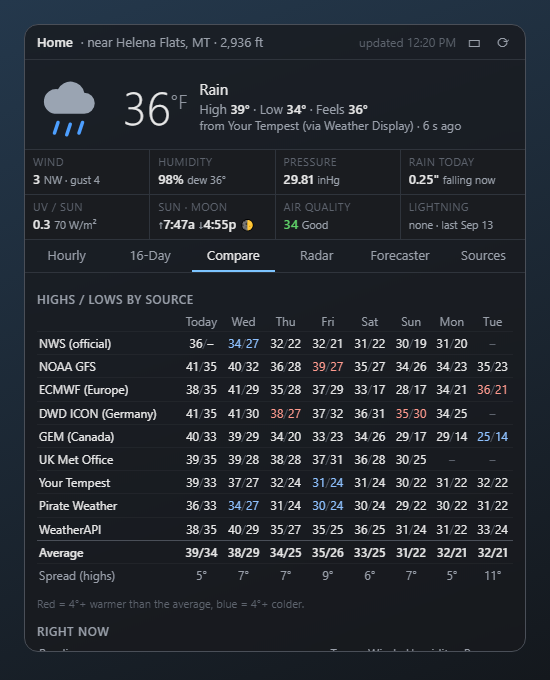
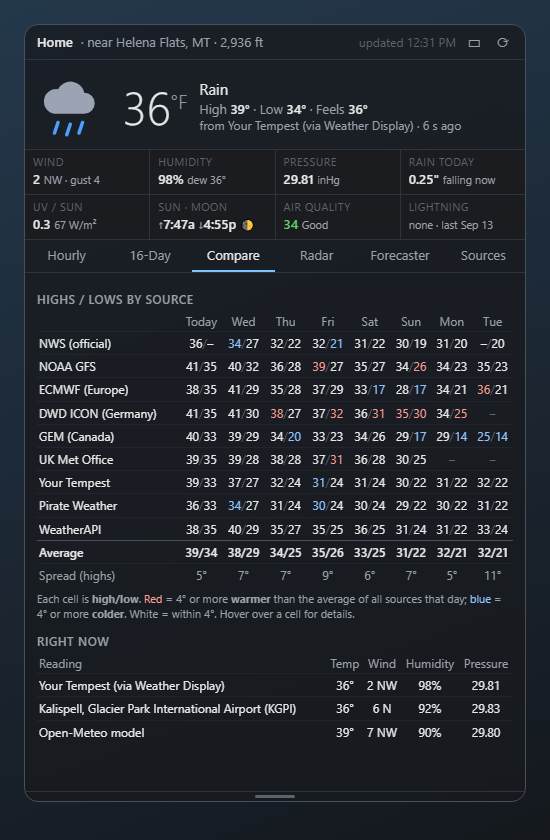
Resizable height, Compare colour key and tooltips, more screenshots
- Drag the bottom handle to make the panel taller/shorter (remembered,
  capped at the screen); double-click it to fit the current tab
- Compare: high and low coloured separately, hover tooltips per cell,
  clearer key; tooltips on the average and spread rows
- Radar loop starts on and pauses at the newest frame, shows minutes ago
- Hourly tooltip shows gusts only when higher; 7-day axis shows 12a/12p
- README: full-height screenshots plus day details, hourly hover, 7-day
  and right-click menu

Changed region(s): [[0.0309, 0.0309, 0.9582, 0.8956], [0.0618, 0.9265, 0.2164, 0.9574], [0.4636, 0.9265, 0.5255, 0.9574]]

diff --git a/panel.html b/panel.html
@@ -45,7 +45,12 @@
   nav div { flex: 1; text-align: center; padding: 6px 0; color: var(--dim); cursor: pointer; border-bottom: 2px solid transparent; }
   nav div:hover { color: var(--text); }
   nav div.on { color: var(--text); border-bottom-color: var(--accent); }
-  .tab { display: none; padding: 8px 12px 10px; height: 360px; overflow-y: auto; }
+  .tab { display: none; padding: 8px 12px 10px; height: var(--tabh, 360px); overflow-y: auto; }
+  #grip { height: 9px; cursor: ns-resize; display: flex; align-items: center; justify-content: center;
+          border-top: 1px solid var(--line); touch-action: none; }
+  #grip::after { content: ""; width: 40px; height: 3px; border-radius: 2px; background: #5d636d; }
+  #grip:hover::after { background: var(--accent); }
+  body.compact #grip { display: none; }
   .pywebview-drag-region { cursor: move; }
   #menu { position: fixed; background: #222; border: 1px solid #555; border-radius: 6px; z-index: 20;
           font-size: 13px; color: #ddd; padding: 4px 0; white-space: nowrap; }
@@ -129,6 +134,7 @@
   <div class="tab" id="t-radar"><div id="radar"></div><div style="margin-top:6px;color:var(--dim)" id="radarInfo"></div></div>
   <div class="tab" id="t-afd"></div>
   <div class="tab" id="t-sources"></div>
+  <div id="grip" title="Drag to make the panel taller or shorter. Double-click: fit this tab."></div>
 </div>
 <div id="tip"></div>
 <div id="menu" hidden>
@@ -263,7 +269,7 @@ function renderHourly() {
   // icons, temps and hour labels
   H.forEach((h, i) => { if (i % step) return;
     s += `<g transform="translate(${x(i) - 9} ${y(h.temp) - 26})">${icon(h.icon, 18, !h.day)}</g>`;
-    s += `<text x="${x(i)}" y="${bot - 20}" text-anchor="middle">${hourSpan === 48 ? hourLabel(h.t) : dayName(h.t.slice(0, 10))}</text>`;
+    s += `<text x="${x(i)}" y="${bot - 20}" text-anchor="middle">${hourLabel(h.t)}</text>`;
     s += `<text x="${x(i)}" y="${bot - 6}" text-anchor="middle" style="fill:#8a9">${f0(h.wind)}</text>`; });
   s += `<text x="0" y="${bot - 6}" style="fill:#8a9">mph</text>`;
   s += `<line id="cur" y1="${top - 8}" y2="${bot - 18}" stroke="#fff6" visibility="hidden"/>`;
@@ -275,7 +281,7 @@ function renderHourly() {
     const r = svg.getBoundingClientRect(), i = Math.max(0, Math.min(H.length - 1, Math.round((e.clientX - r.left - 30) / ((W - 44) / (H.length - 1))))), h = H[i];
     const c = $("cur"); c.setAttribute("x1", x(i)); c.setAttribute("x2", x(i)); c.setAttribute("visibility", "visible");
     const by = Object.entries(h.by || {}).map(([k, v]) => `<div style="color:#aaa">${k}: ${f0(v)}°</div>`).join("");
-    tip.innerHTML = `<b>${dayName(h.t.slice(0, 10))} ${hourLabel(h.t)}</b> ${esc(h.text || "")}<br>${f0(h.temp)}°F (feels ${f0(h.feels)}°) · ${h.pop ?? 0}% · wind ${f0(h.wind)}${h.gust ? "–" + f0(h.gust) : ""} mph${h.aqi != null ? " · AQI " + h.aqi : ""}${by}`;
+    tip.innerHTML = `<b>${dayName(h.t.slice(0, 10))} ${hourLabel(h.t)}</b> ${esc(h.text || "")}<br>${f0(h.temp)}°F (feels ${f0(h.feels)}°) · ${h.pop ?? 0}% · wind ${f0(h.wind)}${h.gust > h.wind ? ", gusts " + f0(h.gust) : ""} mph${h.aqi != null ? " · AQI " + h.aqi : ""}${by}`;
     tip.style.display = "block";
     const z = +document.body.style.zoom || 1, vw = innerWidth / z, vh = innerHeight / z;
     tip.style.left = Math.max(2, Math.min(e.clientX + 14, vw - tip.offsetWidth - 4)) + "px";
@@ -322,14 +328,17 @@ function periodDate(p) {
 
 function renderCompare() {
   const days = D.days.slice(0, 8), srcs = [...new Set(days.flatMap(d => Object.keys(d.by)))];
-  const cell = (d, s) => { const v = d.by[s]; if (!v || v.hi == null) return `<td style="color:var(--faint)">–</td>`;
-    const dh = v.hi - d.hi, cls = dh >= 4 ? "dev-hi" : dh <= -4 ? "dev-lo" : "";
-    return `<td class="${cls}">${f0(v.hi)}<span style="color:var(--faint)">/</span>${f0(v.lo)}</td>`; };
+  const dev = (v, avg) => v == null || avg == null ? "" : v - avg >= 4 ? "dev-hi" : v - avg <= -4 ? "dev-lo" : "";
+  const vs = (v, avg) => { if (v == null) return "no forecast"; const d = Math.round(v - avg);
+    return `${f0(v)}° (${d === 0 ? "same as" : Math.abs(d) + "° " + (d > 0 ? "warmer than" : "colder than")} the ${f0(avg)}° average)`; };
+  const cell = (d, s, i) => { const v = d.by[s]; if (!v || (v.hi == null && v.lo == null)) return `<td style="color:var(--faint)" title="${s} has no forecast for this day">–</td>`;
+    const tip = `${s}, ${i ? dayName(d.date, true) : "today"}\nHigh ${vs(v.hi, d.hi)}\nLow ${vs(v.lo, d.lo)}${v.pop != null ? "\nChance of rain/snow " + v.pop + "%" : ""}${v.text ? "\n" + v.text : ""}`;
+    return `<td title="${esc(tip)}"><span class="${dev(v.hi, d.hi)}">${f0(v.hi)}</span><span style="color:var(--faint)">/</span><span class="${dev(v.lo, d.lo)}">${f0(v.lo)}</span></td>`; };
   let h = `<h4>Highs / lows by source</h4><table class="cmp"><tr><th></th>${days.map((d, i) => `<th>${i ? dayName(d.date) : "Today"}</th>`).join("")}</tr>`;
-  h += srcs.map(s => `<tr><td>${s}</td>${days.map(d => cell(d, s)).join("")}</tr>`).join("");
-  h += `<tr class="cons"><td>Average</td>${days.map(d => `<td>${f0(d.hi)}/${f0(d.lo)}</td>`).join("")}</tr>`;
-  h += `<tr><td style="color:var(--dim)">Spread (highs)</td>${days.map(d => `<td style="color:var(--dim)">${d.hi_max - d.hi_min}°</td>`).join("")}</tr></table>`;
-  h += `<p style="color:var(--faint);font-size:11px">Red = 4°+ warmer than the average, blue = 4°+ colder.</p>`;
+  h += srcs.map(s => `<tr><td>${s}</td>${days.map((d, i) => cell(d, s, i)).join("")}</tr>`).join("");
+  h += `<tr class="cons"><td>Average</td>${days.map(d => `<td title="Average of ${d.hi_n} sources: high ${f0(d.hi)}°, low ${f0(d.lo)}°">${f0(d.hi)}/${f0(d.lo)}</td>`).join("")}</tr>`;
+  h += `<tr><td style="color:var(--dim)">Spread (highs)</td>${days.map(d => `<td style="color:var(--dim)" title="Warmest high ${d.hi_max}° minus coldest high ${d.hi_min}°. Bigger = the sources disagree more.">${d.hi_max - d.hi_min}°</td>`).join("")}</tr></table>`;
+  h += `<p style="color:var(--dim);font-size:11px;margin-top:6px">Each cell is <b>high/low</b>. <span class="dev-hi">Red</span> = 4° or more <b>warmer</b> than the average of all sources that day; <span class="dev-lo">blue</span> = 4° or more <b>colder</b>. White = within 4°. Hover over a cell for details.</p>`;
   h += `<h4>Right now</h4><table class="cmp"><tr><th>Reading</th><th>Temp</th><th>Wind</th><th>Humidity</th><th>Pressure</th></tr>` +
     D.readings.map(r => `<tr><td>${esc(r.station)}</td><td>${f0(r.temp)}°</td><td>${f0(r.wind)} ${compass(r.dir)}</td><td>${f0(r.rh)}%</td><td>${r.pressure ? (+r.pressure).toFixed(2) : "–"}</td></tr>`).join("") + `</table>`;
   $("t-compare").innerHTML = h;
@@ -345,7 +354,7 @@ function renderSources() {
   const S = D.sources;
   $("t-sources").innerHTML = Object.entries(S).map(([k, s]) => {
     const col = s.state === "ok" ? "var(--good)" : s.state === "no key" ? "var(--faint)" : s.state === "stale" ? "var(--fair)" : "var(--bad)";
-    const note = s.state === "ok" ? (s.via ? "via " + s.via : "") + (s.fetched ? " · " + ago(new Date(s.fetched * 1000).toISOString()) : "")
+    const note = s.state === "ok" ? [s.via ? "via " + s.via : "", s.fetched ? ago(new Date(s.fetched * 1000).toISOString()) : ""].filter(Boolean).join(" · ")
       : s.state === "no key" ? `free key needed · <a href="${s.signup}" target="_blank">sign up</a>` : esc(s.error || s.state);
     return `<div class="src"><div class="dot" style="background:${col}"></div><div>${k}${s.keyed ? ' <small style="color:var(--faint)">(key)</small>' : ""}</div><div class="note">${note}</div></div>`;
   }).join("") + `<p style="color:var(--faint);font-size:11px">To add or change a key: right-click the panel → <b>Edit API keys…</b>, paste it, save. It's used from the next refresh. Radar: RainViewer. Map: Esri.</p>`;
@@ -410,6 +419,34 @@ function setLocked(on) {
   $("mLock").textContent = on ? "Unlock position" : "Lock position";
 }
 function setZoom(z) { document.body.style.zoom = z; }
+
+// Bottom-edge handle: drag to change the height of the tab area (remembered).
+// Double-click: make it exactly tall enough for the tab that's showing.
+let tabH = 360;
+function setTabHeight(h, save, noCap) {
+  const z = +document.body.style.zoom || 1;
+  const rest = $("panel").getBoundingClientRect().height / z - document.querySelector(".tab.on").getBoundingClientRect().height / z;
+  const maxH = noCap ? 5000 : Math.max(200, screen.availHeight / z - rest - 20);   // never taller than the screen
+  tabH = Math.round(Math.max(200, Math.min(maxH, h)));
+  document.documentElement.style.setProperty("--tabh", tabH + "px");
+  if (save) app()?.remember("tabh", tabH);
+}
+const grip = $("grip");
+grip.addEventListener("pointerdown", e => {
+  if (e.button !== 0) return;
+  e.preventDefault();
+  try { grip.setPointerCapture(e.pointerId); } catch {}
+  const y0 = e.screenY, h0 = tabH, z = +document.body.style.zoom || 1;
+  grip.onpointermove = m => setTabHeight(h0 + (m.screenY - y0) / z, false);
+  grip.onpointerup = () => { grip.onpointermove = grip.onpointerup = null; setTabHeight(tabH, true); };
+});
+grip.addEventListener("dblclick", () => {
+  const t = document.querySelector(".tab.on"), cs = getComputedStyle(t);
+  t.style.height = "auto";
+  const h = t.offsetHeight - parseFloat(cs.paddingTop) - parseFloat(cs.paddingBottom);
+  t.style.height = "";
+  setTabHeight(h, true);
+});
 document.addEventListener("mousedown", e => {
   if (e.button === 0 && e.target.closest(".pywebview-drag-region") && !e.target.closest(".btn")) { dragging = true; app()?.dragging(true); }
 });
@@ -440,6 +477,7 @@ new ResizeObserver(() => {
 window.addEventListener("pywebviewready", async () => {
   const s = await app().settings();
   setZoom(s.zoom); setCompact(s.compact); setLocked(s.locked); showTab(s.tab);
+  if (s.tabh) setTabHeight(s.tabh, false);
   const r = $("panel").getBoundingClientRect();
   app().fit(Math.ceil(r.right) + 1, Math.ceil(r.bottom) + 1);
 });
@@ -456,6 +494,15 @@ async function load(force) {
 load().then(() => {   // ?tab=daily / ?compact: open that way (used for screenshots)
   if (Q.get("tab")) showTab(Q.get("tab"));
   if (Q.has("compact")) setCompact(true);
+  if (Q.get("tabh")) setTabHeight(+Q.get("tabh"), false, true);
+  if (Q.get("span")) { hourSpan = +Q.get("span"); renderHourly(); }
+  if (Q.get("open")) $("dd" + Q.get("open"))?.classList.add("open");
+  if (Q.get("hover")) {   // show the hourly tooltip at hour N
+    const svg = $("hsvg"), r = svg.getBoundingClientRect(), n = Math.min(hourSpan, D.hourly.length);
+    const px = r.left + 30 + (+Q.get("hover")) * (476 - 44) / (n - 1);
+    svg.dispatchEvent(new MouseEvent("mousemove", { clientX: px, clientY: r.top + 90, bubbles: true }));
+  }
+  if (Q.has("menu")) { menu.hidden = false; menu.style.left = "300px"; menu.style.top = "70px"; }
 });
 setInterval(load, 60 * 1000);
 </script>

diff --git a/app.py b/app.py
@@ -181,10 +181,11 @@ class Api:
     # -- called from the page
     def settings(self):
         return {"locked": self._pos.get("locked", False), "compact": self._pos.get("compact", False),
-                "zoom": self._pos.get("zoom", 1), "tab": self._pos.get("tab", "hourly")}
+                "zoom": self._pos.get("zoom", 1), "tab": self._pos.get("tab", "hourly"),
+                "tabh": self._pos.get("tabh")}
 
     def remember(self, key, value):
-        if key in ("compact", "zoom", "tab"):
+        if key in ("compact", "zoom", "tab", "tabh"):
             self._set(**{key: value})
 
     def toggle_lock(self):

diff --git a/README.md b/README.md
@@ -14,6 +14,18 @@ readings on top.
 |---|---|---|
 | ![Forecaster](docs/screenshots/forecaster.png) | ![Sources](docs/screenshots/sources.png) | ![Compact](docs/screenshots/compact.png) |
 
+**Hidden extras**
+
+| Click a day (16-Day) | Hover the hourly chart | Hourly: 7 days | Right-click menu |
+|---|---|---|---|
+| ![Day details](docs/screenshots/daily-open.png) | ![Hourly tooltip](docs/screenshots/hourly-hover.png) | ![7 days](docs/screenshots/hourly-7day.png) | ![Menu](docs/screenshots/menu.png) |
+
+- **Click a day** in 16-Day for the NWS day and night forecast text, sun times, UV, snow, rain,
+  gusts and every source's numbers for that day.
+- **Hover** the hourly chart for that hour's details and each source's temperature.
+- **Hover a cell** in Compare to see how far that source is from the average.
+- **Click a warning banner** to read the full NWS alert and what to do.
+
 - **Now:** your station (Tempest), else the nearest official station, else the model.
   Wind and gusts, humidity and dew point, pressure and its 3-hour trend, rain today, UV and
   solar, sunrise and sunset, moon, air quality, lightning.
@@ -45,6 +57,8 @@ hides while its monitor is off and comes back when the monitor is on again.
 ## Using it
 
 - **Move:** drag the top bar or the current-conditions area.
+- **Taller or shorter:** drag the small handle on the bottom edge. Double-click it to fit the
+  tab you're looking at exactly. The height is remembered and never goes past the screen.
 - **Right-click** the panel for its menu: Lock position, Compact / Full size, Small /
   Medium / Large, Refresh now, Edit API keys, Edit location, Close.
 - The **tray icon** (sun and cloud) has the same menu, plus **Start with Windows**.
@@ -74,6 +88,8 @@ prompt. Lightning isn't in that file; the Tempest cloud token adds it.
 **How the average works:** each day's high and low is the average of every source that
 forecasts that day. Lows are the calendar-day low (that morning), for every source. The dot
 shows agreement: green when the sources are within 5°, yellow within 10°, red beyond that.
+In **Compare**, each cell is high/low. A **red** number is 4° or more **warmer** than that
+day's average; a **blue** one is 4° or more **colder**.
 
 To add or change a key, right-click the panel → **Edit API keys…**, paste it, and save.
 `config.json` and `keys.json` stay on your PC and are never uploaded (they're git-ignored).
